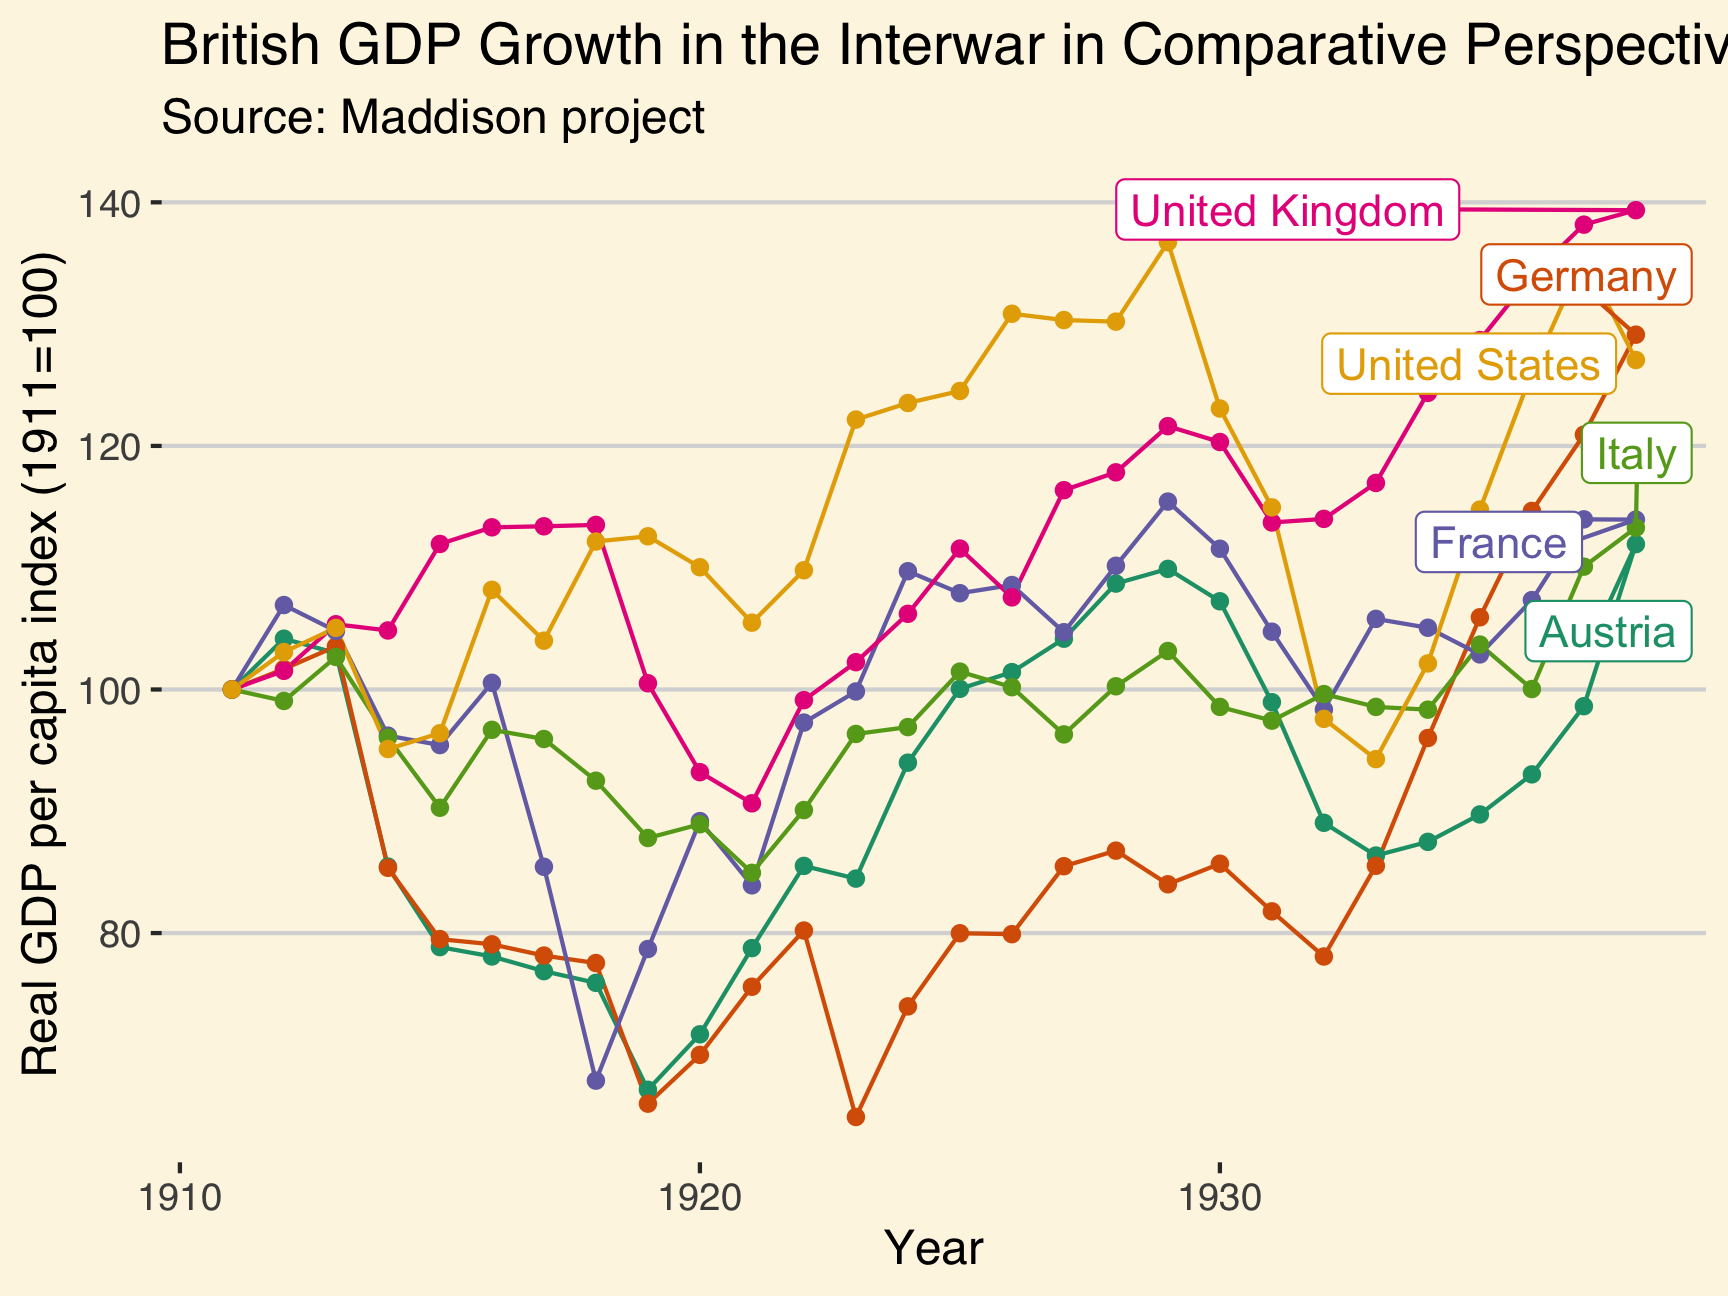
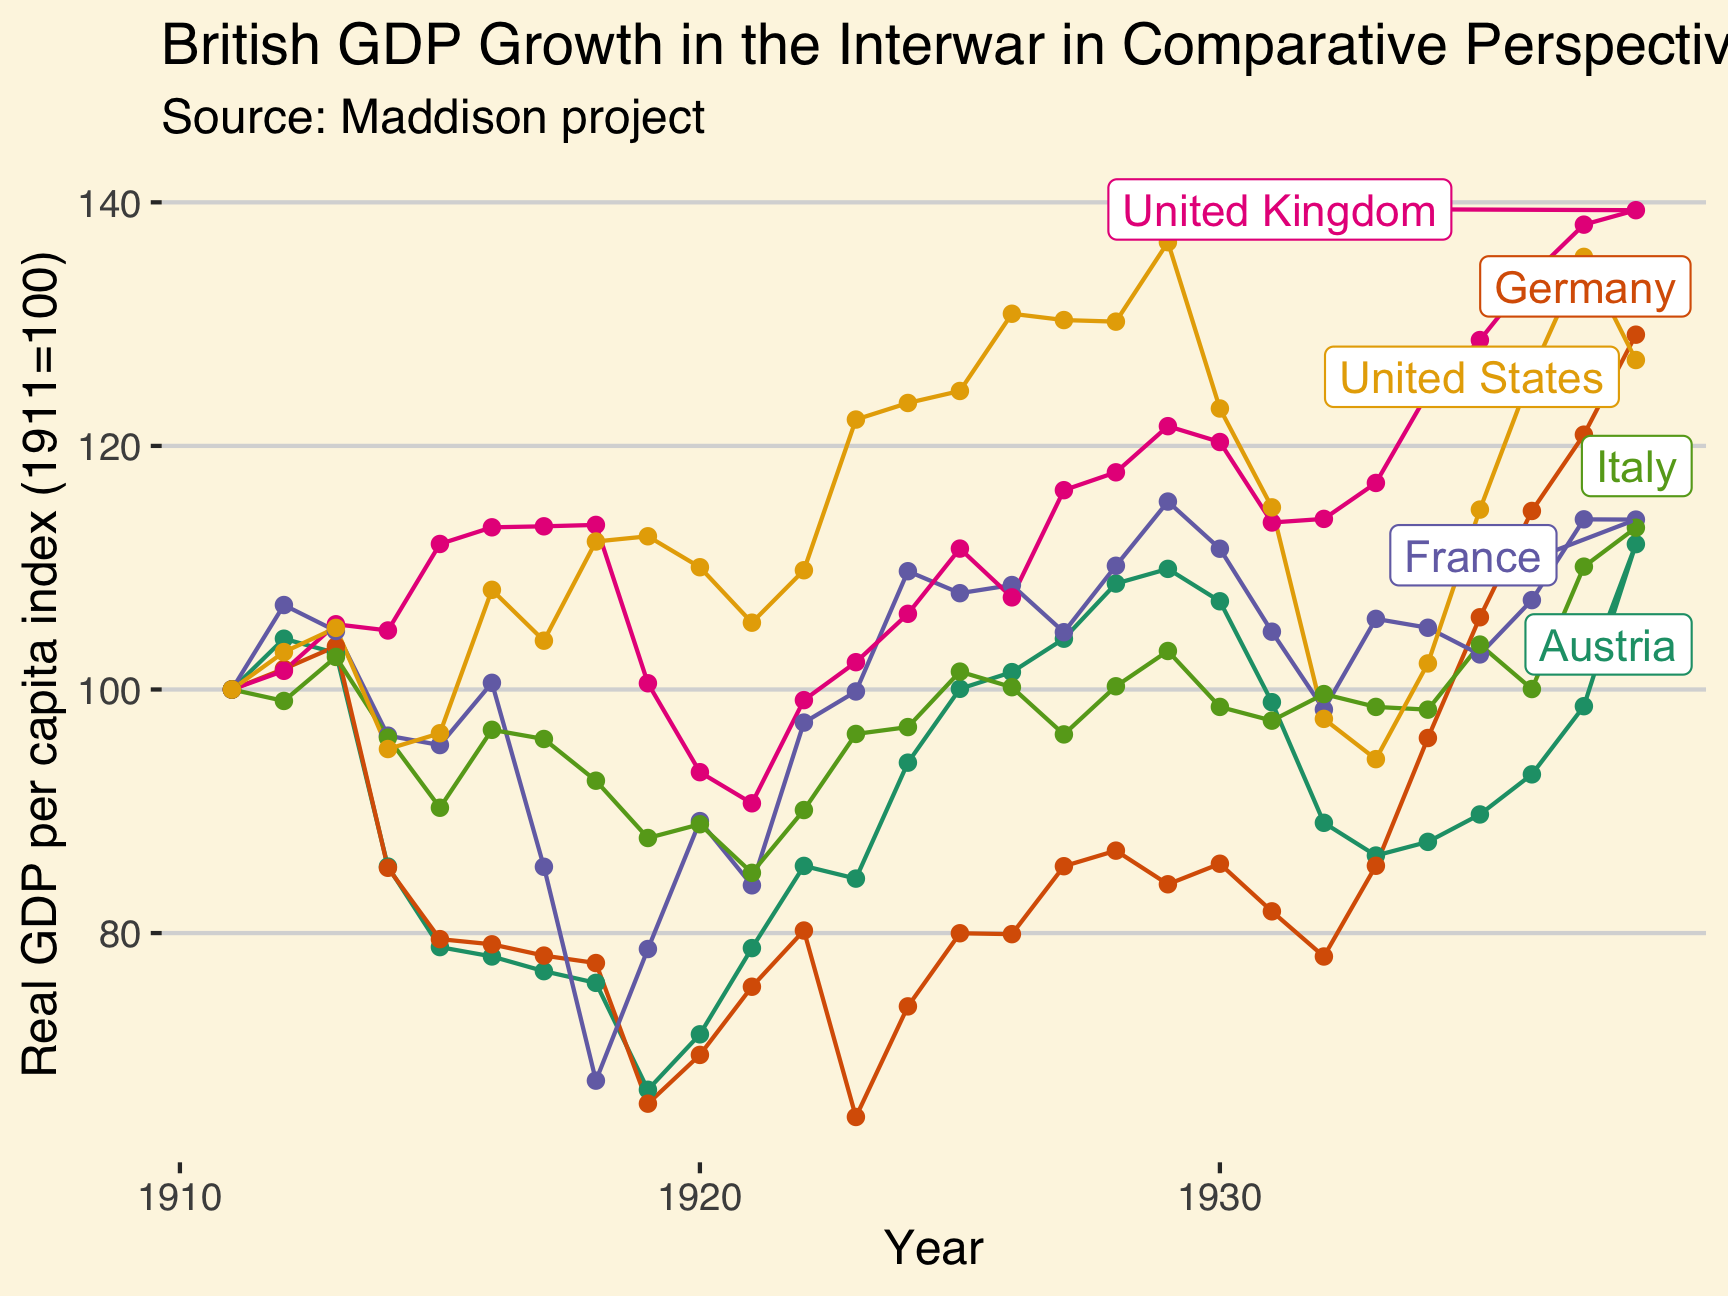
fixed plot label

Changed region(s): [[0.75, 0.1852, 1.0, 0.5247], [0.625, 0.1235, 0.8438, 0.1852]]

diff --git a/20_interwar.html b/20_interwar.html
@@ -350,7 +350,7 @@ class: center, middle
 
 ## Taking the long view
 
-&gt;  "Economic history is distinguished from economics by a predisposition to focus upon the long run. When looking at the inter-war... the timespan (1921-37) is short and punctuated by a uniquely severe depression (1929-32). Thus in arguments about the efficacy of government policies, inspired by Keynesian and anti-Keynesian conceptions of the period, historians are inclined to bring Britain's structural problems to the fore. The origins of these problems can be traced back to the 1870s and they became serious during the last great international boom of the Liberal era, 1899-1914, when the productivity of industry failed to grow at all. Britain entered the First World with an economy specialized upon a narrow range of staple industries, under intensifying threat from foreign competition."&lt;br&gt; —O'Brien, 128
+&gt;  "**Economic history is distinguished from economics by a predisposition to focus upon the long run.** When looking at the inter-war... the timespan (1921-37) is short and punctuated by a uniquely severe depression (1929-32). Thus in arguments about the efficacy of government policies, inspired by Keynesian and anti-Keynesian conceptions of the period, historians are inclined to bring Britain's structural problems to the fore. The origins of these problems can be traced back to the 1870s and they became serious during the last great international boom of the Liberal era, 1899-1914, when the productivity of industry failed to grow at all. Britain entered the First World with an economy specialized upon a narrow range of staple industries, under intensifying threat from foreign competition."&lt;br&gt; —O'Brien, 128
 
 + Is the interwar subject to special problems apart from the recession?
 + Or is this just the continuation of a longer-term trajectory of decline?
